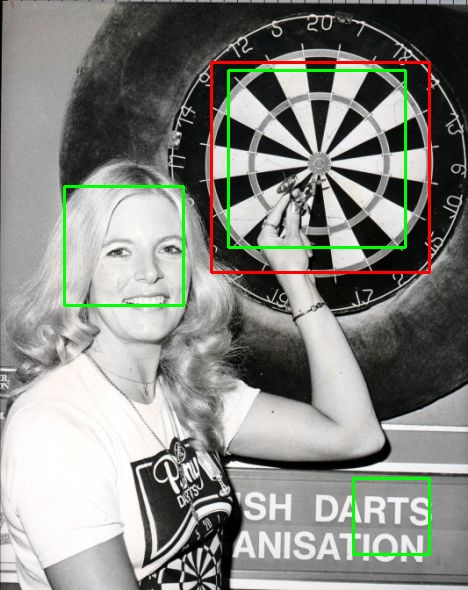
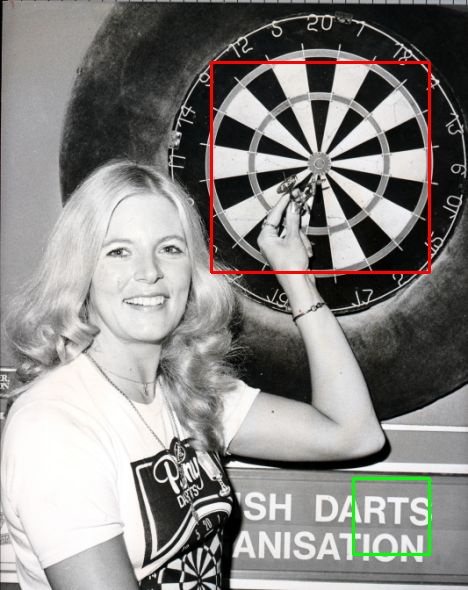
task1 finisih
Combine both hough circle ditection and viola-Jones detection.

Changed region(s): [[0.4786, 0.0915, 0.8974, 0.4271], [0.1197, 0.3051, 0.4188, 0.5492]]

diff --git a/dart.py b/dart.py
@@ -19,7 +19,7 @@ def detectAndDisplay(frame):
     frame_gray = cv2.cvtColor(frame, cv2.COLOR_BGR2GRAY)
     frame_gray = cv2.equalizeHist(frame_gray)
     # 2. Perform Viola-Jones Object Detection
-    darts = model.detectMultiScale(frame_gray, scaleFactor=1.01, minNeighbors=48, flags=0, minSize=(40, 40),
+    darts = model.detectMultiScale(frame_gray, scaleFactor=1.01, minNeighbors=100, flags=0, minSize=(40, 40),
                                    maxSize=(230, 230))
     # 3. Print number of Faces found
 
@@ -187,6 +187,40 @@ def merge_close_circles(detected_circles, min_distance=20):
     return new_detected_circles
 
 
+def merge_boxes_based_on_iou(boxes, iou_thresholdforbox=0.3):
+    merged_boxes = []
+    skip_indices1 = set()
+
+    for a in range(len(boxes)):
+        if a in skip_indices1:
+            continue
+
+        merge_with = None
+        for b in range(a + 1, len(boxes)):
+            if b in skip_indices1:
+                continue
+
+            iouForBoxes = calculate_iou(boxes[a], boxes[b])
+            if iouForBoxes > iou_thresholdforbox:
+                merge_with = b
+                break
+
+        if merge_with is not None:
+            # 计算两个框的平均位置
+            new_box = [
+                (boxes[a][0] + boxes[merge_with][0]) / 2,
+                (boxes[a][1] + boxes[merge_with][1]) / 2,
+                (boxes[a][2] + boxes[merge_with][2]) / 2,
+                (boxes[a][3] + boxes[merge_with][3]) / 2
+            ]
+            merged_boxes.append(new_box)
+            skip_indices1.add(a)
+            skip_indices1.add(merge_with)
+        else:
+            merged_boxes.append(boxes[a])
+
+    return merged_boxes
+
 
 def hough_circle_detection(gradient_magnitude, gradient_orientation, ts, th, min_radius, max_radius):
     # Step 1: Threshold the gradient magnitude image.
@@ -245,7 +279,7 @@ def hough_circle_detection(gradient_magnitude, gradient_orientation, ts, th, min
 averageTPR = 0
 averageF1 = 0
 
-for i in range(4, 16):
+for i in range(0, 16):
 
     imageName = f'Dartboard/dart{i}.jpg'
     imageNameEdit = imageName.split('/')[-1].split('.')[0]
@@ -265,27 +299,112 @@ for i in range(4, 16):
         print('Not image data')
         sys.exit(1)
 
-    # 2. Load the Strong Classifier in a structure called `Cascade'
+    # Load the Strong Classifier in a structure called `Cascade'
     model = cv2.CascadeClassifier()
     # if got error, you might need `if not model.load(cv2.samples.findFile(cascade_name)):' instead
     if not model.load(cascade_name):
         print('--(!)Error loading cascade model')
         exit(0)
 
-    iou_threshold = 0.5  # Set threshold value
     ground_truth_boxes = []  # Replace with your list of ground truth bounding boxes
 
-    # Extract the detected boxes for the current image
+    # detected boxes
     print('Image :' + imageNameEdit)
     detected_boxes = detectAndDisplay(frame)
+
+    # Read the ground truth boxes
     bounding_boxes = readGroundtruth('GroundTruth.txt')
     draw_bounding_boxes(frame, bounding_boxes, imageNameEdit)
 
-    # Extract the ground truth boxes for the current image
+    # ground truth boxes
     if bounding_boxes is not None:
         for img_name, x, y, width, height in bounding_boxes:
             if img_name == imageNameEdit:
                 ground_truth_boxes.append((x, y, width, height))
+
+    # best_matches = {}
+    # for m, gt_box in enumerate(ground_truth_boxes):
+    #     best_iou = 0
+    #     best_box = None
+    #     for d_box in detected_boxes:
+    #         iou = calculate_iou(d_box, gt_box)
+    #         if iou >= iou_threshold and iou > best_iou:
+    #             best_iou = iou
+    #             best_box = d_box
+    #     if best_box is not None:
+    #         best_matches[m] = best_box
+    #
+    # # best_matches contains each ground truth box matched with the best detected box
+    # for gt_index, box in best_matches.items():
+    #     print(f"Ground truth box {ground_truth_boxes[gt_index]} best matched with detected box {box} with IOU: "
+    #           f"{calculate_iou(box, ground_truth_boxes[gt_index])}")
+    #
+    # # TPR Calculation
+    # true_positives = len(best_matches)  # Number of correctly detected faces
+    # total_ground_truth = len(ground_truth_boxes)  # Total number of ground truth faces
+    # TPR = true_positives / total_ground_truth
+    # averageTPR += TPR
+    # print(f"True positive rate: {TPR}")
+    #
+    # false_positives = len(detected_boxes) - true_positives
+    # precision = true_positives / (true_positives + false_positives + 0.1)
+    # recall = TPR  # Recall is the same as TPR
+    #
+    # # F1 score
+    # F1_score = 2 * (precision * recall) / ((precision + recall) + 0.1)
+    # averageF1 += F1_score
+    # print(f"F1 score: {F1_score}")
+    # print("\n")
+
+    resultName = f"Result_Image/result{i}.jpg"
+    filenameForThreshold = f"Result_Image/thresholded_image{i}.jpg"
+    filenameForHough = f"Result_Image/hough_space_sum{i}.jpg"
+    # cv2.imwrite(resultName, frame)
+
+    # Hough Circle Detection##############################################
+    # Read Input Image from source
+    frame_circle = cv2.imread(imageName, 1)
+
+    if not (type(frame_circle) is np.ndarray):
+        print('Not image data')
+        sys.exit(1)
+
+    gray_image = cv2.cvtColor(frame_circle, cv2.COLOR_BGR2GRAY)
+    gray_image = gray_image.astype(np.float32)
+    gray_image = cv2.GaussianBlur(gray_image, (5, 5), 0)
+    gradient_magnitude = gradient_mag(gray_image)
+    gradient_orientation = gradient_ori(gray_image)
+    ts = 100
+    th = 20
+    min_radius = 20
+    max_radius = 115
+
+    thresholded_image, hough_space_sum, detectedCircles = hough_circle_detection(gradient_magnitude,
+                                                                                 gradient_orientation, ts, th,
+                                                                                 min_radius, max_radius)
+
+    # Draw circles on the frame
+    for circles in detectedCircles:
+        cv2.circle(frame, (circles[1], circles[0]), circles[2], (255, 0, 0), 2)
+
+    hough_space_sum = hough_space_sum.astype(np.uint8)
+    cv2.imwrite(filenameForHough, hough_space_sum)
+    cv2.imwrite(filenameForThreshold, thresholded_image)
+    cv2.imwrite(resultName, frame)
+
+    ###combine viola_Jones and hough circle detection##################
+    iou_threshold = 0.1  # Set threshold value for IOU
+
+    # change detectedCircle to box and put it in detected_boxes
+    for circles in detectedCircles:
+        x = circles[1] - circles[2]
+        y = circles[0] - circles[2]
+        width = circles[2] * 2
+        height = circles[2] * 2
+        detected_boxes.append((x, y, width, height))
+
+    # merge boxes
+    detected_boxes = merge_boxes_based_on_iou(detected_boxes)
 
     best_matches = {}
     for m, gt_box in enumerate(ground_truth_boxes):
@@ -321,50 +440,8 @@ for i in range(4, 16):
     print(f"F1 score: {F1_score}")
     print("\n")
 
-    resultName = f"Result_Image/result{i}.jpg"
-    filenameForThreshold = f"Result_Image/thresholded_image{i}.jpg"
-    filenameForHough = f"Result_Image/hough_space_sum{i}.jpg"
-    # cv2.imwrite(resultName, frame)
-
-    # Hough Circle Detection##############################################
-    # Read Input Image from source
-    frame_circle = cv2.imread(imageName, 1)
-
-    if not (type(frame_circle) is np.ndarray):
-        print('Not image data')
-        sys.exit(1)
-
-    gray_image = cv2.cvtColor(frame_circle, cv2.COLOR_BGR2GRAY)
-    gray_image = gray_image.astype(np.float32)
-    gray_image = cv2.GaussianBlur(gray_image, (5, 5), 0)
-    gradient_magnitude = gradient_mag(gray_image)
-    gradient_orientation = gradient_ori(gray_image)
-    ts = 100
-    th = 20
-    min_radius = 20
-    max_radius = 115
-
-    thresholded_image, hough_space_sum, detectedCircles = hough_circle_detection(gradient_magnitude,
-                                                                                 gradient_orientation, ts, th,
-                                                                                 min_radius, max_radius)
-
-    for circles in detectedCircles:
-        cv2.circle(frame, (circles[1], circles[0]), circles[2], (255, 0, 0), 2)
-    cv2.imwrite(filenameForThreshold, thresholded_image)
-
-    hough_space_sum = hough_space_sum.astype(np.uint8)
-    cv2.imwrite(filenameForHough, hough_space_sum)
-
-    cv2.imwrite(resultName, frame)
-
 print(f"Average TPR: {averageTPR / 16}")
 print(f"Average F1 score: {averageF1 / 16}")
-
-
-
-
-
-
 
 # cv2.imwrite("grayimage.jpg", gray_image)
 

diff --git a/task1.py b/task1.py
@@ -19,7 +19,7 @@ def detectAndDisplay(frame):
     frame_gray = cv2.cvtColor(frame, cv2.COLOR_BGR2GRAY)
     frame_gray = cv2.equalizeHist(frame_gray)
     # 2. Perform Viola-Jones Object Detection
-    darts = model.detectMultiScale(frame_gray, scaleFactor=1.01, minNeighbors=48, flags=0, minSize=(40, 40),
+    darts = model.detectMultiScale(frame_gray, scaleFactor=1.01, minNeighbors=100, flags=0, minSize=(40, 40),
                                    maxSize=(230, 230))
     # 3. Print number of Faces found
 
